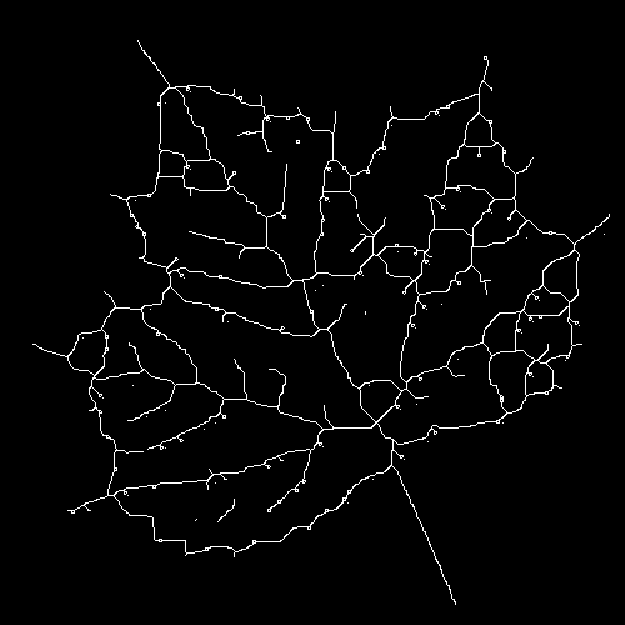
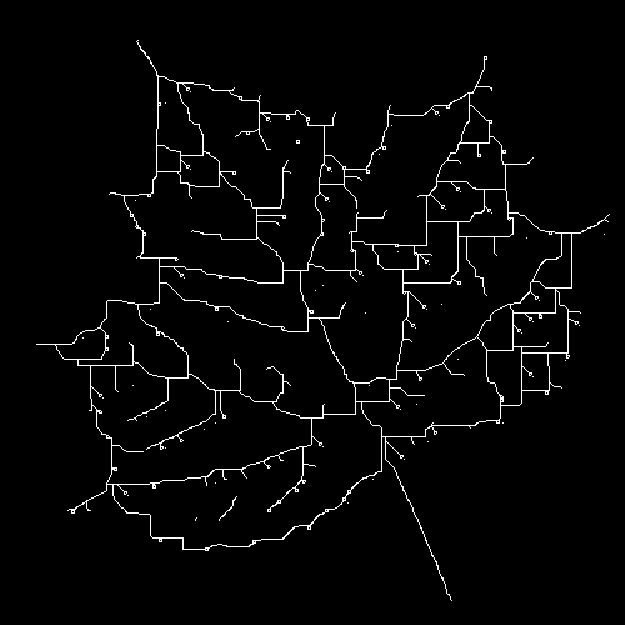
adding temporary desmos portion;

diff --git a/index.html b/index.html
@@ -1,0 +1,50 @@
+<!DOCTYPE html>
+<html>
+<head>
+	<title></title>
+</head>
+<body>
+<style>
+#calculator {
+	width: 100%;
+    margin: 0 auto;
+    height: 500px;
+}
+</style>
+<div id="calculator"></div>
+<span id = 'text'></span>
+</body>
+
+<script src="https://www.desmos.com/api/v1.2/calculator.js?apiKey=dcb31709b452b1cf9dc26972add0fda6"></script>
+<script>
+  var elt = document.getElementById('calculator');
+  var calculator = Desmos.GraphingCalculator(elt);
+  var data = ['(3, 4)', '(6, 7)']
+  for (let x of data) {
+	randid = Math.random().toString(36).substring(7)
+	calculator.setExpression({id:randid, latex: x})
+  }
+</script>
+
+<script type="text/javascript" src="http://localhost:5000/socket.io/socket.io.js"></script>
+<script type="text/javascript">
+
+function log(html) {
+	text = document.getElementById('span')
+    text.innerHTML += html + '<br>';
+}
+
+var socket = new io.Socket('localhost', { port: 5000 });
+socket.on('connect', function() {
+    log('connect');
+});
+socket.on('message', function(data) {
+    log('message: ' + data);
+});
+socket.on('disconnect', function() {
+    log('disconnect');
+});
+socket.connect();
+
+</script>
+</html>

diff --git a/zhang_suen_thinning.py b/zhang_suen_thinning.py
@@ -45,22 +45,24 @@ def zhangSuen(image):
                     P2 * P4 * P6 == 0  and    # Condition 3   
                     P4 * P6 * P8 == 0):         # Condition 4
                     changing1.append((x,y))
+                    coords.append((x, y))
 
         # print('lol')
         # print(changing1)
         for x, y in changing1: 
             Image_Thinned[x][y] = 0
+
         # Step 2
         changing2 = []
         for x in range(1, rows - 1):
             for y in range(1, columns - 1):
                 P2,P3,P4,P5,P6,P7,P8,P9 = n = neighbours(x, y, Image_Thinned)
-                if (Image_Thinned[x][y] == 1   and        # Condition 0
-                    2 <= sum(n) <= 6  and       # Condition 1
-                    transitions(n) == 1 and      # Condition 2
-                    P2 * P4 * P8 == 0 and       # Condition 3
-                    P2 * P6 * P8 == 0):            # Condition 4: when all == 0, means all around are black -> reduced to the fullest
-                    changing2.append((x,y))
+                # 1 is black, 0 is white
+                if (Image_Thinned[x][y] == 1   and # Condition 0 - is black pixel
+                    2 <= sum(n) <= 6  and  # Condition 1 - 2 to 6 black neighbor
+                    transitions(n) == 1 and  # Condition 2 - only 1 neighbor to transition to *******
+                    P2 * P4 * P8 == 0 and       # Condition 3 - TOP HALF... either 2, 4, or 8 is white
+                    P2 * P6 * P8 == 0):            # Condition 4: BOTTOM HALF... either 2, 6, or 8 is white
                     coords.append((x, y))   
         for x, y in changing2: 
             Image_Thinned[x][y] = 0 # the 0 pixels are the white ones
@@ -79,22 +81,6 @@ print(coords) # array containing coordinates of points
 
 set_coords = set(coords)
 
-# (31, 45) search for...
-# x: 31 +- 1, 45
-# y: 31, 45 +- 1
-# top diagonals: (30 - 1, 45 + 1) (30 + 1, 45 + 1)
-# bottom diagonals: (30 - 1, 45 - 1), (30 + 1, 45 - 1)
-
-# BW_Skeleton = BW_Original
-"Display the results"
-# fig, ax = plt.subplots(1, 2)
-# ax1, ax2 = ax.ravel()
-# ax1.imshow(BW_Original, cmap=plt.cm.gray)
-# ax1.set_title('Original binary image')
-# ax1.axis('off')
-# ax2.imshow(BW_Skeleton, cmap=plt.cm.gray)
-# ax2.set_title('Skeleton of the image')
-# ax2.axis('off')
 height, width = BW_Skeleton.shape
 dpi = 80
 # What size does the figure need to be in inches to fit the image?
@@ -108,18 +94,5 @@ ax.axis('off')
 # Display the image.
 ax.imshow(BW_Skeleton, cmap='gray')
 print(type(ax))
-# plt.show()
 
-# plt.subplot(122),plt.imshow(edges,cmap = 'gray')
-# plt.title(''), plt.xticks([]), plt.yticks([])
-
-# fig, ax = plt.subplots(1)
-# # plt.figure(figsize=(12, 9))
-# for ind in df.index:
-#     ax.scatter(df.loc[ind, 'wt'], df.loc[ind, 'mpg'], label=ind)
-# ax.legend(bbox_to_anchor=(1.05, 1), loc=2)
-# fig.tight_layout()
-# plt.show()
-# fig.savefig('lol3.jpg')
-# plt.show()
 fig.savefig('asdf.png')

diff --git a/server.py b/server.py
@@ -1,0 +1,18 @@
+import socket_io as io
+
+class Server(io.Server):
+    def on_connect(self, client):
+        # print client, 'connected'
+        self.broadcast(str(client) + ' connected')
+        # print 'there are now', len(self.clients), 'clients'
+    
+    def on_message(self, client, message):
+        # print client, 'sent', message
+        client.send(message)
+    
+    def on_disconnect(self, client):
+        # print client, 'disconnected'
+        self.broadcast(str(client) + ' disconnected')
+        # print 'there are now', len(self.clients), 'clients'
+
+Server().listen(5000)
